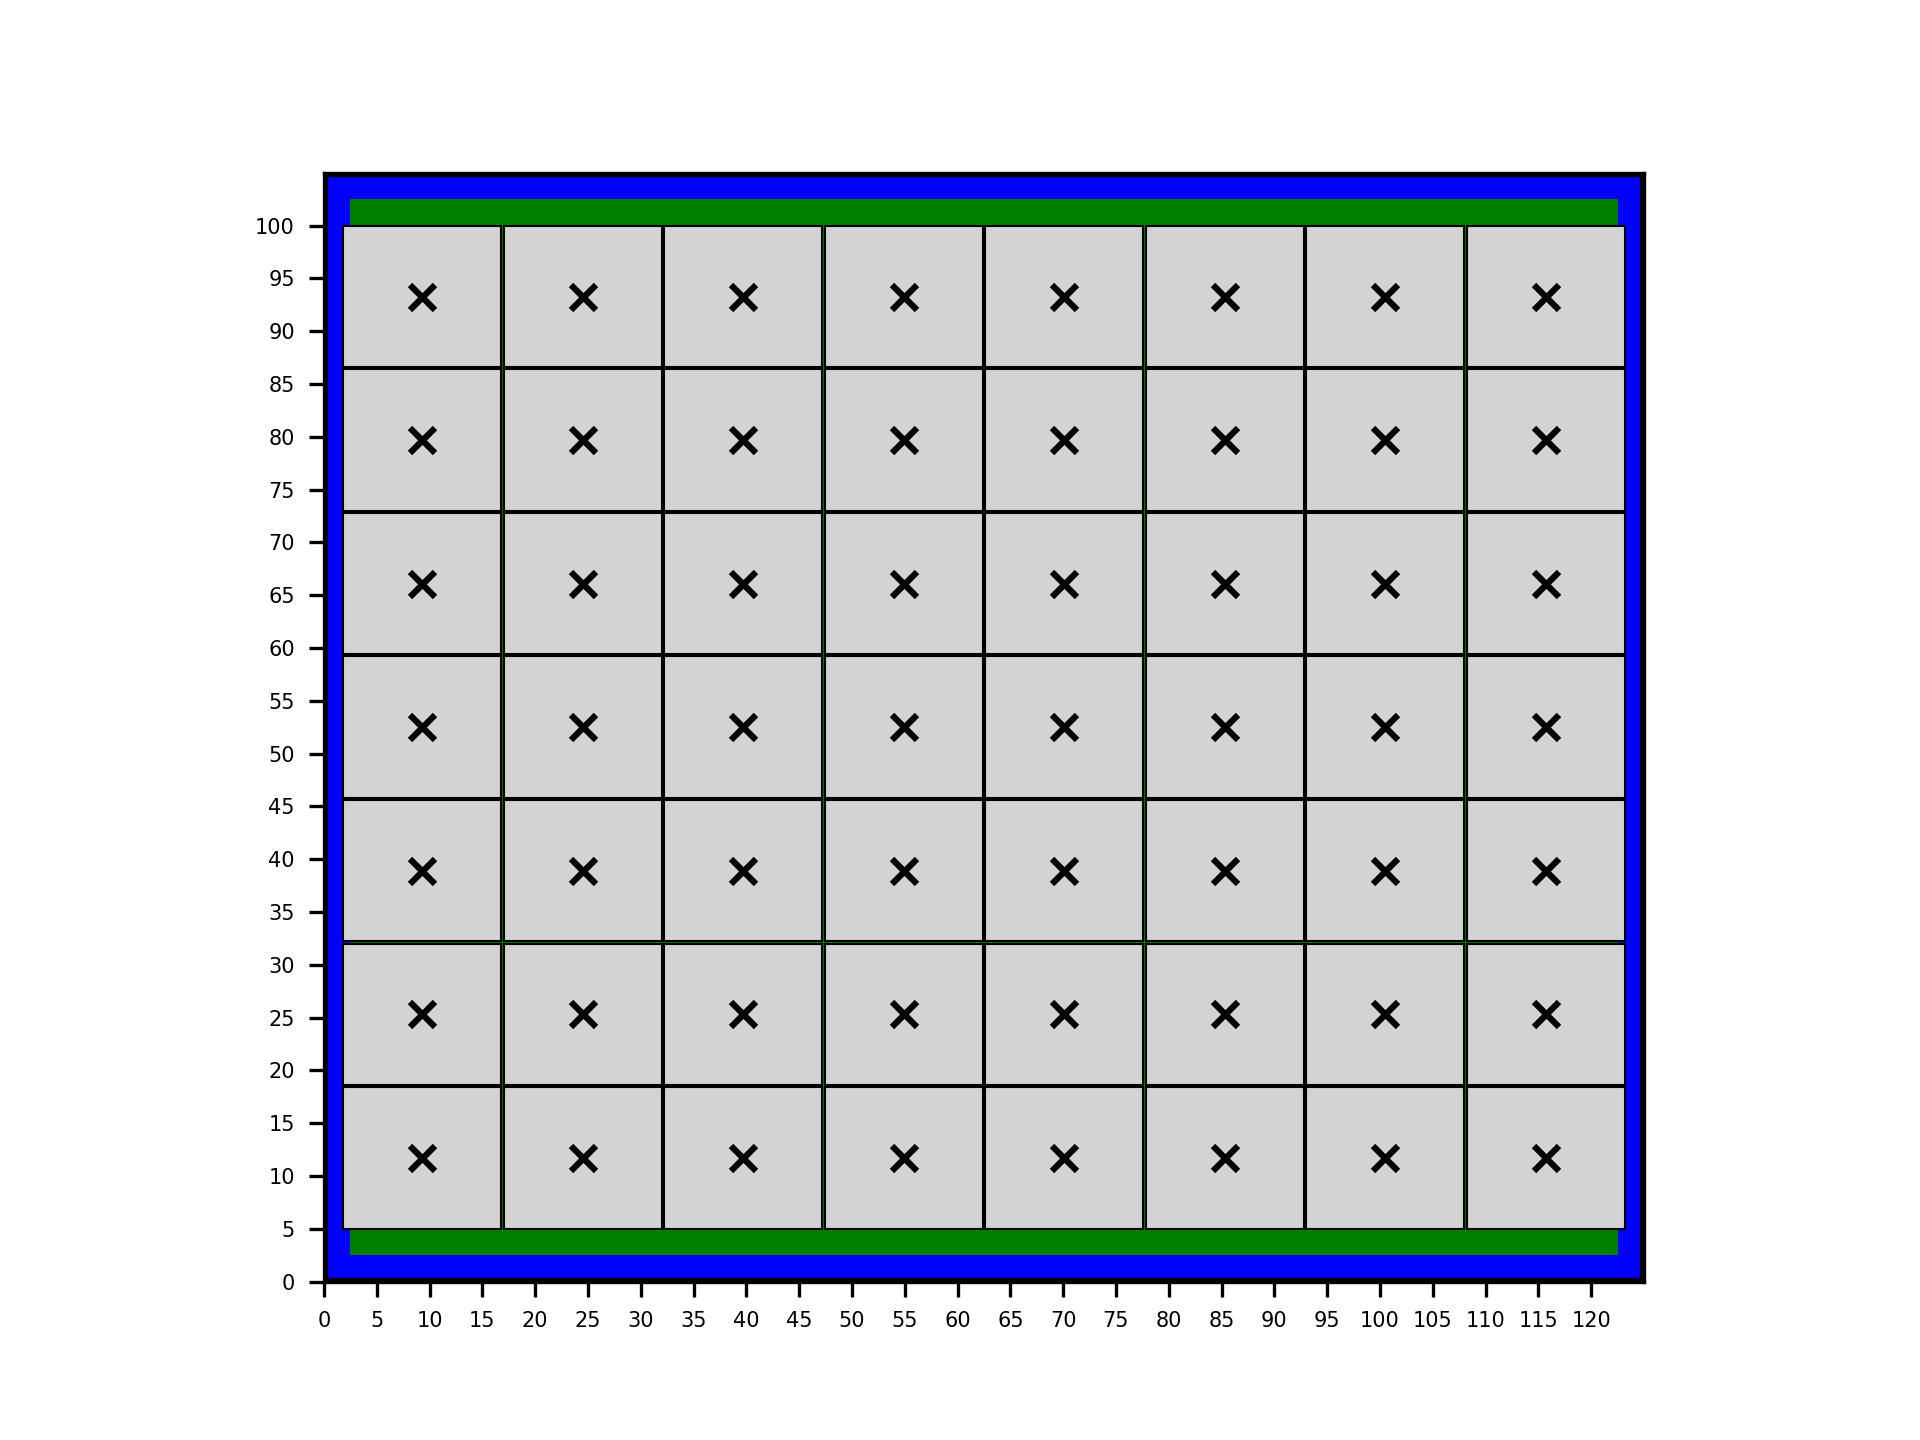
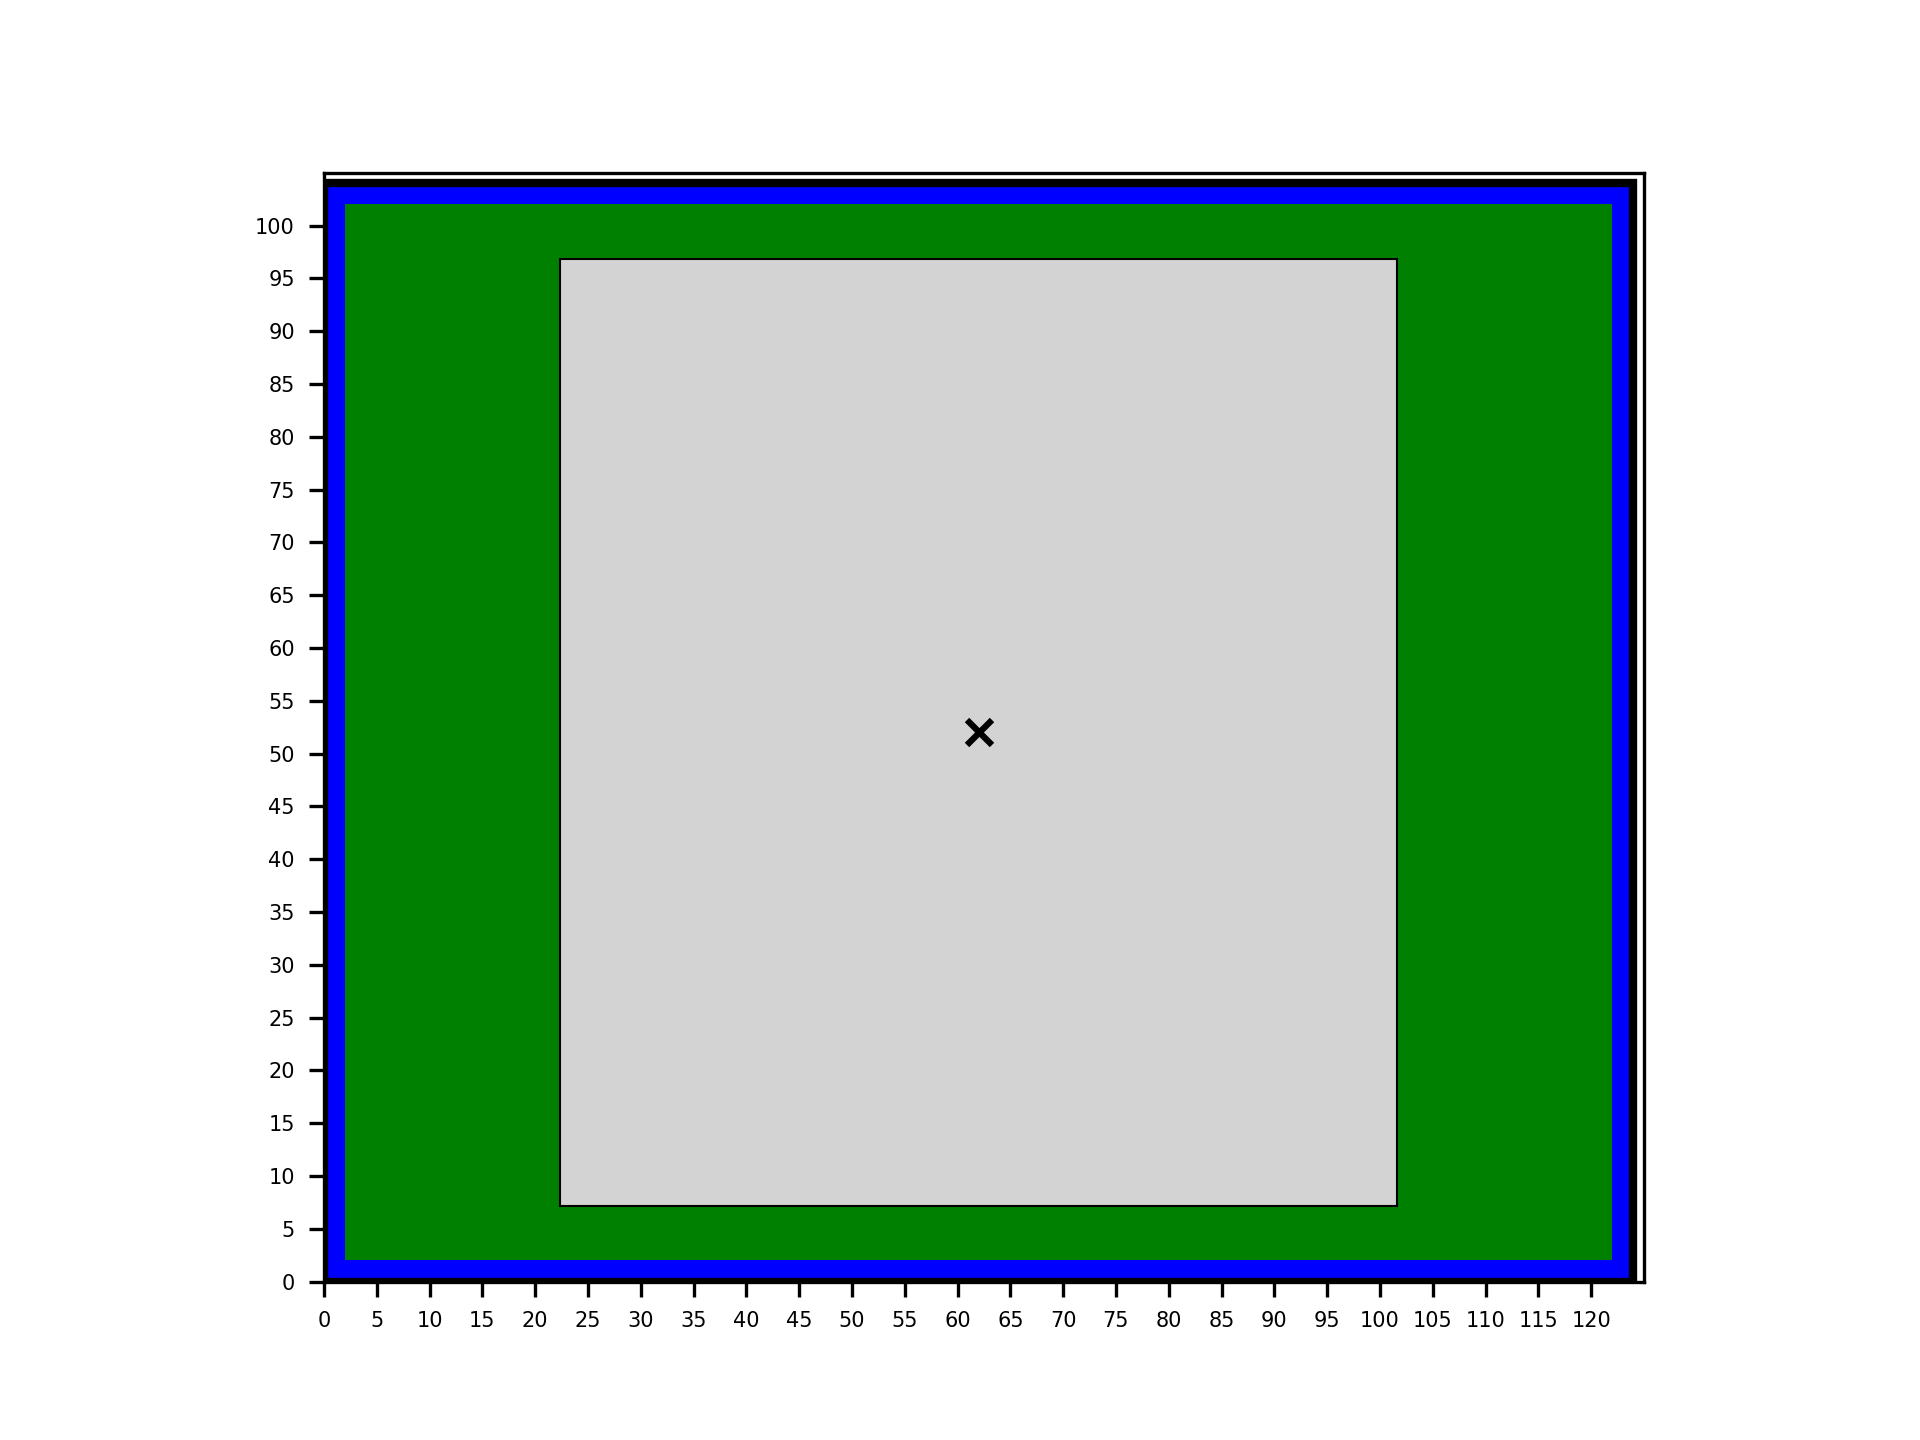
..

diff --git a/GUI_main.py b/GUI_main.py
@@ -1,11 +1,13 @@
 from folder_1.CalculateDimension import calculate_hexagon_dimensions as cd
 from folder_2.CalculateDimension import calculate_rectangle_dimensions as cd2
+from folder_3.CalculateDimension import calculate_trapeze_dimensions as cd3
 import tkinter as tk
 from tkinter import ttk
 import pandas as pd
 from PIL import ImageTk, Image
 from folder_2.Draw import draw_rectangles as draw_rects
 from folder_1.Draw import draw_hexagons as draw_hexs
+from folder_3.Draw import draw_trapezes as draw_traps
 import csv
 
 
@@ -66,7 +68,7 @@ class App:
             writer.writerow(['x', 'y'])
 
             for hexagon in hexagons:
-                writer.writerow([round(hexagon.origin_x - 2.5, 2), round(hexagon.origin_y - 2.5, 2)])
+                writer.writerow([round(hexagon.origin_x - 2, 2), round(hexagon.origin_y - 2, 2)])
 
     def rectangle_test(self, weight, dest, console_log, total_actual_hexagon):
 
@@ -118,7 +120,7 @@ class App:
             writer.writerow(['x', 'y'])
 
             for rectangle in rectangles:
-                writer.writerow([round(rectangle.center_x, 2), round(rectangle.center_y, 2)])
+                writer.writerow([round(rectangle.center_x - 2, 2), round(rectangle.center_y - 2, 2)])
     
     def actual_hexagon_test(self, weight, dest, console_log, actual_compo):
         rows_array = [float(i) for i in actual_compo.split('-')]
@@ -141,6 +143,14 @@ class App:
         draw_hexs(hexagons, True)
         self.save_on_csv_hex(hexagons, "_attuale")
         return single*total
+    
+    def trapezoid_test(self, weight, dest, console_log, total_actual_hexagon):
+        
+        trapezes = cd3(float(dest)/20)
+        
+        print(len(trapezes))
+        
+        draw_traps(trapezes)
 
     def __init__(self, master):
         self.master = master
@@ -187,6 +197,7 @@ class App:
         total_actual_hexagon = self.actual_hexagon_test(weight, diameter, self.console_log, actual_compo)
         self.hexagon_test(weight, diameter, self.console_log, total_actual_hexagon)
         self.rectangle_test(weight, diameter, self.console_log, total_actual_hexagon)
+        self.trapezoid_test(weight, diameter, self.console_log, total_actual_hexagon)
 
     def show_images_function(self):
         self.show_images("images/hex.png", "images/rect.png", "images/hex_actual.png")

diff --git a/folder_3/Draw.py b/folder_3/Draw.py
@@ -1,12 +1,11 @@
 import matplotlib.pyplot as plt
 from matplotlib.patches import Rectangle
 from matplotlib.patches import Polygon
-import matplotlib.patches as patches
-import folder_1.Hexagon as hx
-import folder_1.RotatedHexagon as hxr
 import numpy as np
 
-def draw_hexagons(hexagons, isActual):
+
+def draw_trapezes(trapezes):
+    
     # Create a rectangle object with width=120 and height=100
     rect = Rectangle((0, 0), 124, 104, facecolor='blue', edgecolor='black', linewidth=2)
     
@@ -17,25 +16,24 @@ def draw_hexagons(hexagons, isActual):
     
     # Add the rectangle to the axes
     ax.add_patch(rect)
-    
+
+    # Set the limits of the axes
+
     rect_1 = Rectangle((2, 2), 120, 100, linewidth=1, facecolor='green')
 
     ax.add_patch(rect_1)
-
-
-
-
-
-
-    for hexagon in hexagons:
-        verts = hexagon.verts
-        hexagon_polygon = Polygon(verts, fill=True, facecolor='#D3D3D3', edgecolor='black', linewidth=0.5)
-        ax.add_patch(hexagon_polygon)
+    
+    for trapeze in trapezes:
+        verts = trapeze.verts
+        trapeze_polygon = Polygon(verts, fill=True, facecolor='#D3D3D3', edgecolor='black', linewidth=0.5)
+        ax.add_patch(trapeze_polygon)
         # Plotting the dot
-        plt.scatter(hexagon.origin_x, hexagon.origin_y, color='black', marker='x')
+        plt.scatter(trapeze.origin_x, trapeze.origin_y, color='black', marker='x')
         
         
-    # Set the limits of the axes
+
+            
+        
 
 
     ax.set_xlim(0, 125)
@@ -61,21 +59,18 @@ def draw_hexagons(hexagons, isActual):
     # Decrease the font size of y-axis labels
     axis.set_yticklabels(axis.get_yticklabels(), fontsize=5)
 
+
+    
     # Set the aspect ratio to 'equal'
     ax.set_aspect('equal')
-
-
+    
     
 
     #plt.axis('off')
-
     # Display the plot
     #plt.show()
-    if isActual:
-        plt.savefig("./images/hex_actual.png", dpi=300)
-    else:
-        plt.savefig("./images/hex.png", dpi=300)
+    #if (index == 9999):
+    plt.savefig("./images/trap.png", dpi=300)
     ##plt.savefig("./images/" + str(index) + 'hexagon' + str(hex_width) + str(hex_height) + str(hex_side) + rotation + '.png', dpi=300)
 
     plt.close()
-

diff --git a/folder_3/Trapeze.py b/folder_3/Trapeze.py
@@ -1,0 +1,26 @@
+class Trapeze:
+    
+    def __init__(self, a, b, h, origin_x, origin_y):
+        self.a = a
+        self.b = b
+        self.h = h
+        self.origin_x = origin_x
+        self.origin_y = origin_y
+        self.verts = [(self.origin_x - self.a/2, self.origin_y - self.h/2),
+                        (self.origin_x + self.a/2, self.origin_y - self.h/2),
+                        (self.origin_x + self.b/2, self.origin_y + self.h/2),
+                        (self.origin_x - self.b/2, self.origin_y + self.h/2)]
+        
+        
+        
+    def update_points(self, slack_x, slack_y):
+        
+        self.origin_x += slack_x
+        self.origin_y += slack_y
+        
+        self.verts = [(self.origin_x - self.a/2, self.origin_y - self.h/2),
+                        (self.origin_x + self.a/2, self.origin_y - self.h/2),
+                        (self.origin_x + self.b/2, self.origin_y + self.h/2),
+                        (self.origin_x - self.b/2, self.origin_y + self.h/2)]
+        
+        

diff --git a/folder_3/Main.py b/folder_3/Main.py
@@ -1,0 +1,47 @@
+from folder_3 import Trapeze as t
+
+rect_height = 104
+rect_width = 124
+
+def place_trapezes(B, b, h):
+    
+    origin = [B/2, h/2]
+    trapezes = []
+    
+    while True:
+        
+        origin[0] = B/2
+        
+        while True:
+            
+            trapezes.append(t.Trapeze(B, b, h, origin[0], origin[1]))
+            if origin[0] + B + B/2 + 0.2> rect_width:
+                break
+            else:
+                origin[0] += B + 0.2
+                
+        if origin[1] + h + h/2 + 0.2 > rect_height:
+            break
+        else:
+            origin[1] += h + 0.2
+
+    last_origin = (trapezes[-1].origin_x, trapezes[-1].origin_y)
+    
+    slack_y = rect_height - last_origin[1] - h/2
+    slack_x = rect_width - last_origin[0] - B/2
+    
+    for trapeze in trapezes:
+        trapeze.update_points(slack_x/2, slack_y/2)
+        
+    
+    return trapezes
+    
+
+
+
+
+def main(B, b, h):
+    
+    trapezes = place_trapezes(B, b, h)
+    
+    return trapezes

diff --git a/folder_2/Draw.py b/folder_2/Draw.py
@@ -5,7 +5,7 @@ import numpy as np
 
 def draw_rectangles(rectangles):
     # Create a rectangle object with width=120 and height=100
-    rect = Rectangle((0, 0), 125, 105, facecolor='blue', edgecolor='black', linewidth=2)
+    rect = Rectangle((0, 0), 124, 104, facecolor='blue', edgecolor='black', linewidth=2)
     
 
 
@@ -17,7 +17,7 @@ def draw_rectangles(rectangles):
 
     # Set the limits of the axes
 
-    rect_1 = Rectangle((2.5, 2.5), 120, 100, linewidth=1, facecolor='green')
+    rect_1 = Rectangle((2, 2), 120, 100, linewidth=1, facecolor='green')
 
     ax.add_patch(rect_1)
 

diff --git a/folder_3/CalculateDimension.py b/folder_3/CalculateDimension.py
@@ -1,0 +1,11 @@
+import folder_3.Main as m
+
+def calculate_trapeze_dimensions(radius):
+    
+    B_max = 9.468 * radius
+    b_min = 5.158 * radius
+    h = 3.723 * radius
+    
+    return m.main(B_max, b_min, h)
+    
+    

diff --git a/folder_2/Main.py b/folder_2/Main.py
@@ -2,8 +2,8 @@ from folder_2 import Draw as d
 from folder_2 import Rectangle as r
 import csv
 
-rect_height = 105
-rect_width = 125
+rect_height = 104
+rect_width = 124
 
 
 def place_rect(L, l):

diff --git a/folder_1/Main.py b/folder_1/Main.py
@@ -7,8 +7,8 @@ import math
 
 
 ## Variables for the rectangle
-rect_width = 125
-rect_height = 105
+rect_width = 124
+rect_height = 104
 
 ## Variables for the hexagons
 len_no_rotation = 0

diff --git a/folder_1/Circle.py b/folder_1/Circle.py
@@ -1,0 +1,7 @@
+class Circle:
+    def __init__(self, radius, origin_x, origin_y):
+        self.radius = radius
+        self.origin_x = origin_x
+        self.origin_y = origin_y
+
+    
